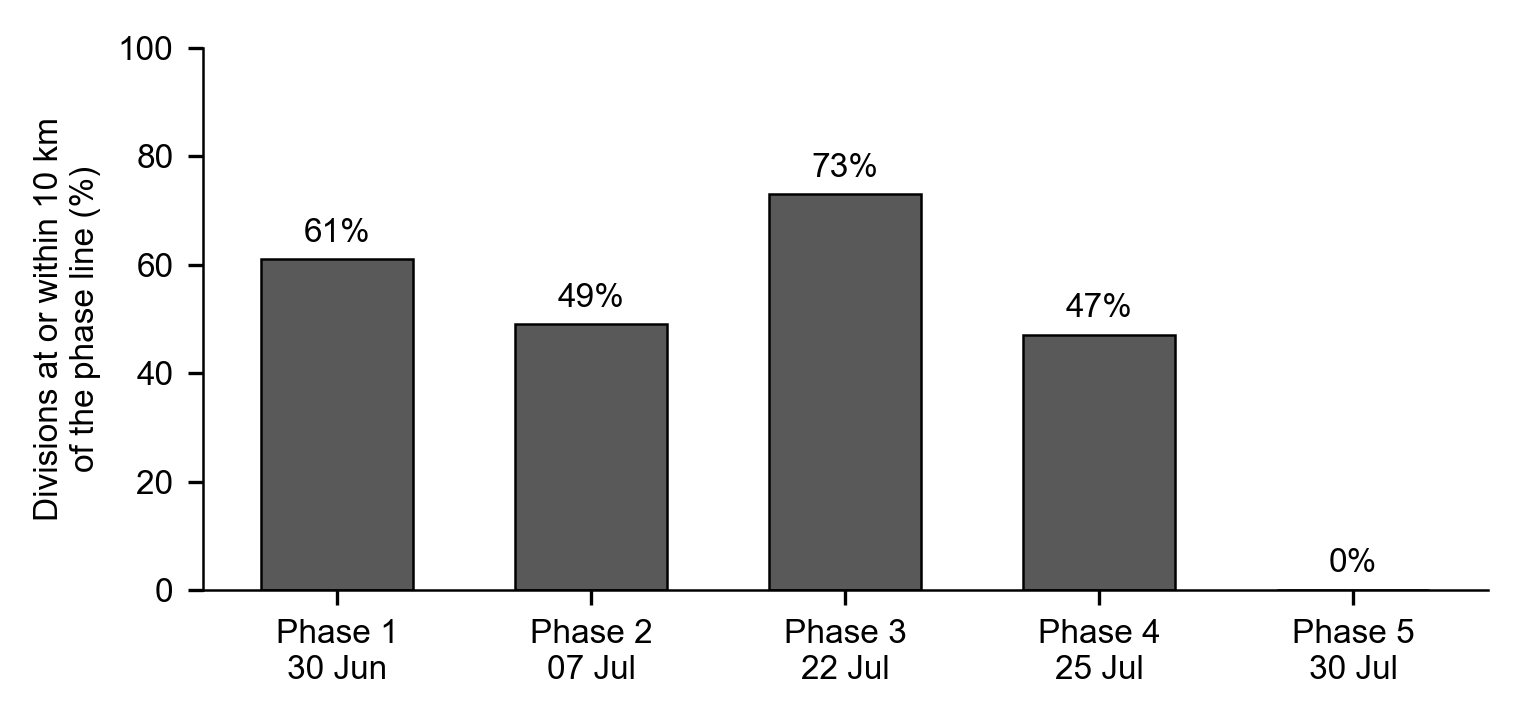
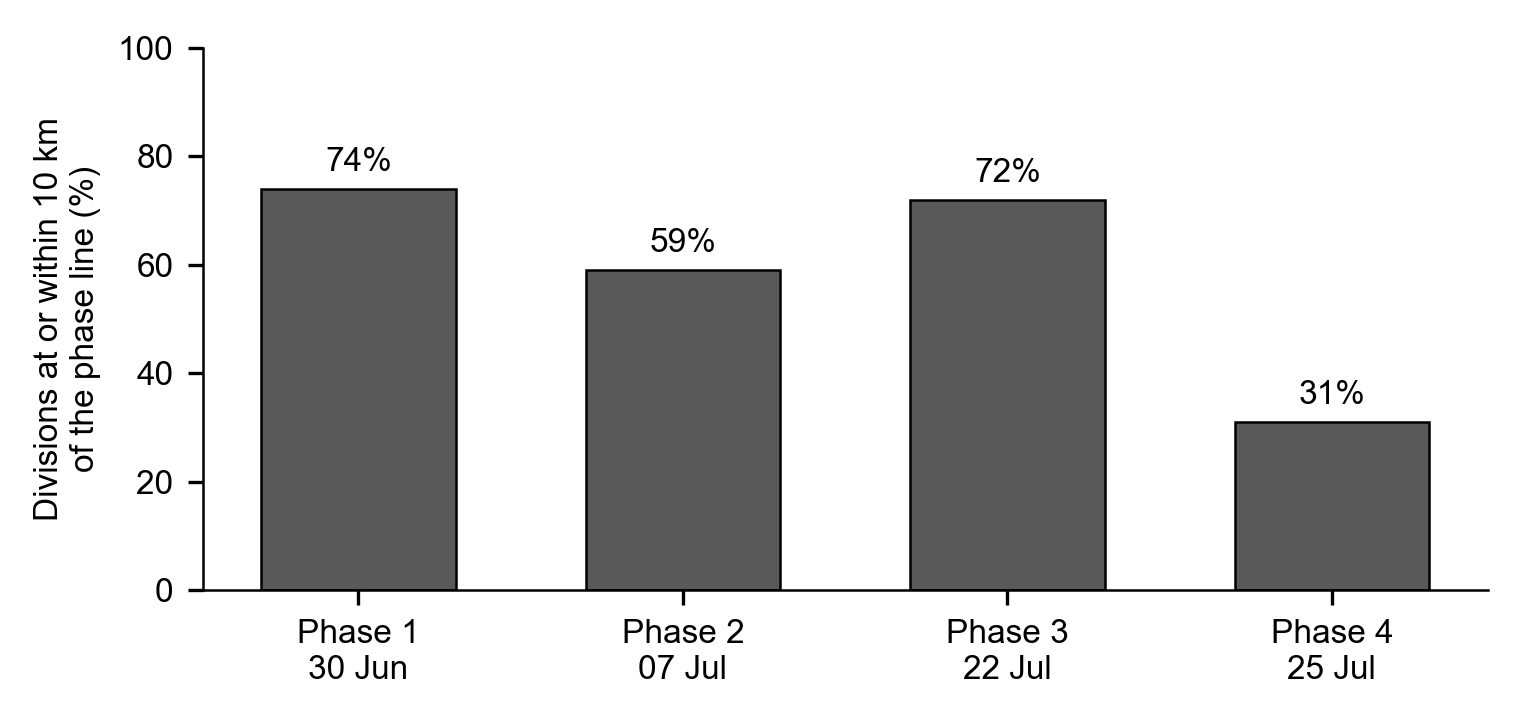
Support OKH and AGS arrival charts
Use OKH phase lines by default while preserving AGS results through PHASE_SET=ags. Handle both north-south and west-east phase lines and write separate datasets and chart files for each set.

diff --git a/figures/arrival_bars.py b/figures/arrival_bars.py
@@ -1,12 +1,14 @@
-"""Black-and-white bar chart: share of divisions at or past each AGS phase line on its planned date.
+"""Black-and-white bar chart: share of divisions at or past each phase line on its planned date.
 
 Same rule and data as the app's Plan vs Actual tab (app/src/lib/crossing.ts share()), so the numbers match what the
-dashboard shows: of that day's Frontier points inside the phase line's latitude span, the share east of the line or no
-more than REACH_KM short of it. Planned dates as agreed with Sorin on 11-6-2026 (phase 3 "mid-July" = 22 Jul, the middle of
+dashboard shows: of that day's Frontier points inside the phase line's span (latitudes; longitudes for a west-east line),
+the share past the line (east of it; south of a west-east one) or no more than REACH_KM short of it. Lines: the OKH
+22 III 41 set, or the historian's a-e with PHASE_SET=ags (writes arrival_ags.*). Planned dates as agreed with Sorin on 11-6-2026 (phase 3 "mid-July" = 22 Jul, the middle of
 15-30 Jul). Writes figures/arrival/arrival_bars.{pdf,png} and arrival.csv. Usage: python figures/arrival_bars.py
 """
 import json
 import math
+import os
 from pathlib import Path
 
 import matplotlib
@@ -19,9 +21,10 @@ from matplotlib.path import Path as MplPath  # noqa: E402
 ROOT = Path(__file__).resolve().parents[1]
 APPDATA = ROOT / "app" / "src" / "data"
 OUT = ROOT / "figures" / "arrival"
+PHASE_SET = os.environ.get("PHASE_SET", "okh")  # as analysis/phase_clusters.py
 REACH_KM = 10
 PLANNED = {"1": "1941-06-30", "2": "1941-07-07", "3": "1941-07-22", "4": "1941-07-25", "5": "1941-07-30"}
-EAST = 60  # same polygon closure as the app
+EAST, SOUTH = 60, 40  # same polygon closures as the app
 
 plt.rcParams.update({"font.family": ["Arial", "DejaVu Sans"], "font.size": 8, "pdf.fonttype": 42, "axes.linewidth": 0.6})
 
@@ -39,10 +42,14 @@ def distance_km(p, line):
 
 
 def share(line, pts):
-    """Port of crossings().share: arrived = east of the line or within REACH_KM of it, among points in its latitude span."""
-    lo, hi = min(c[1] for c in line), max(c[1] for c in line)
-    poly = MplPath([*line, (EAST, line[-1][1]), (EAST, line[0][1]), line[0]])
-    pts = [p for p in pts if lo <= p[1] <= hi]
+    """Port of crossings().share (pastOf): arrived = past the line or within REACH_KM of it, among points in its span."""
+    (x0, y0), (x1, y1) = line[0], line[-1]
+    we = abs((x1 - x0) * math.cos(math.radians((y0 + y1) / 2)) * 111.32) > 2 * abs((y1 - y0) * 110.57)  # runsWestEast
+    k = 0 if we else 1
+    lo, hi = min(c[k] for c in line), max(c[k] for c in line)
+    close = [(x1, SOUTH), (x0, SOUTH)] if we else [(EAST, y1), (EAST, y0)]
+    poly = MplPath([*line, *close, line[0]])
+    pts = [p for p in pts if lo <= p[k] <= hi]
     if not pts:
         return None, 0
     hit = sum(poly.contains_point(p) or distance_km(p, line) <= REACH_KM for p in pts)
@@ -50,7 +57,7 @@ def share(line, pts):
 
 
 def arrival():
-    lines = json.loads((APPDATA / "milestones.json").read_text(encoding="utf8"))["AGS_PhaseLines"]["features"]
+    lines = json.loads((APPDATA / "milestones.json").read_text(encoding="utf8"))["OKH_PhaseLines" if PHASE_SET == "okh" else "AGS_PhaseLines"]["features"]
     points = json.loads((APPDATA / "frontier_points.json").read_text(encoding="utf8"))["features"]
     rows = []
     for f in sorted(lines, key=lambda f: f["properties"]["line_id"]):
@@ -81,11 +88,12 @@ def draw(df, stem):
 def main():
     OUT.mkdir(parents=True, exist_ok=True)
     df = arrival()
-    # Self-check against the dashboard as read in the 11-6 meeting (10 km reach): phase 1 61%, phase 2 49%.
     got = dict(zip(df.phase, df.arrived_pct))
-    assert abs(got["1"] - 61) <= 2 and abs(got["2"] - 49) <= 2, got
-    df.to_csv(OUT / "arrival.csv", index=False)
-    draw(df, OUT / "arrival_bars")
+    if PHASE_SET == "ags":  # self-check against the dashboard as read in the 11-6 meeting (10 km reach): phase 1 61%, phase 2 49%
+        assert abs(got["1"] - 61) <= 2 and abs(got["2"] - 49) <= 2, got
+    tag = "" if PHASE_SET == "okh" else f"_{PHASE_SET}"
+    df.to_csv(OUT / f"arrival{tag}.csv", index=False)
+    draw(df, OUT / f"arrival_bars{tag}")
     print(df.to_string(index=False))
 
 
